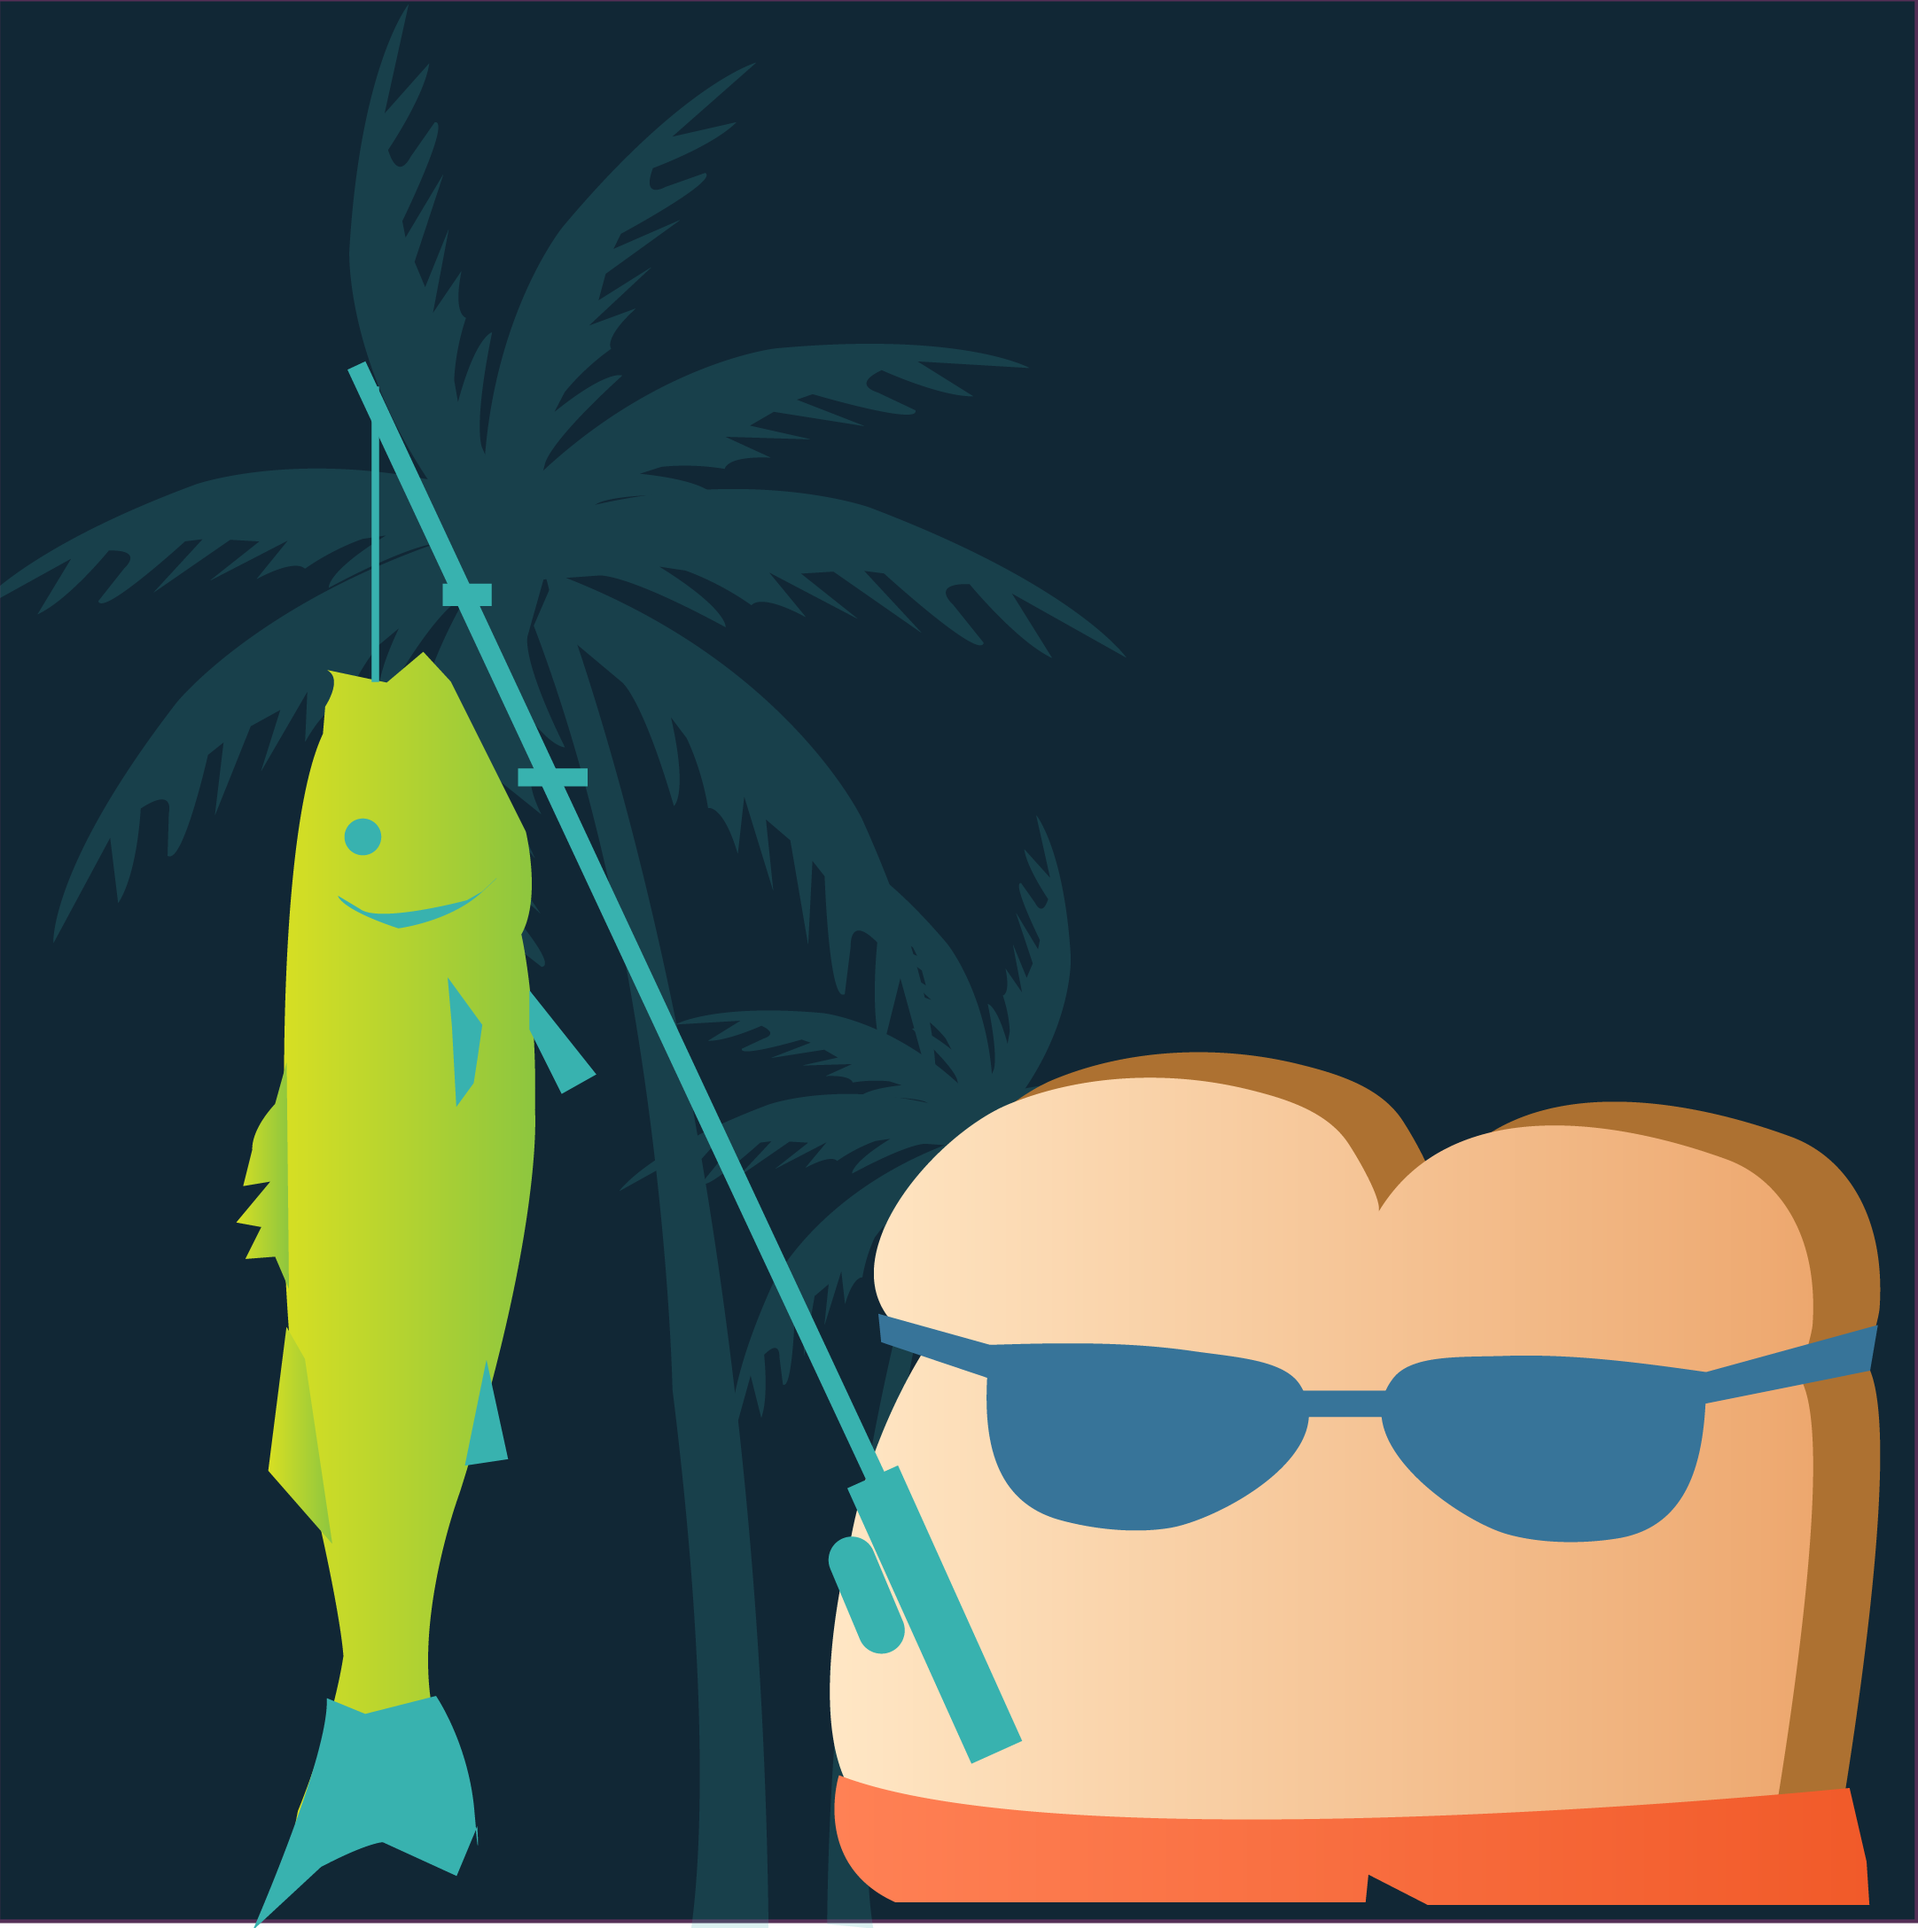
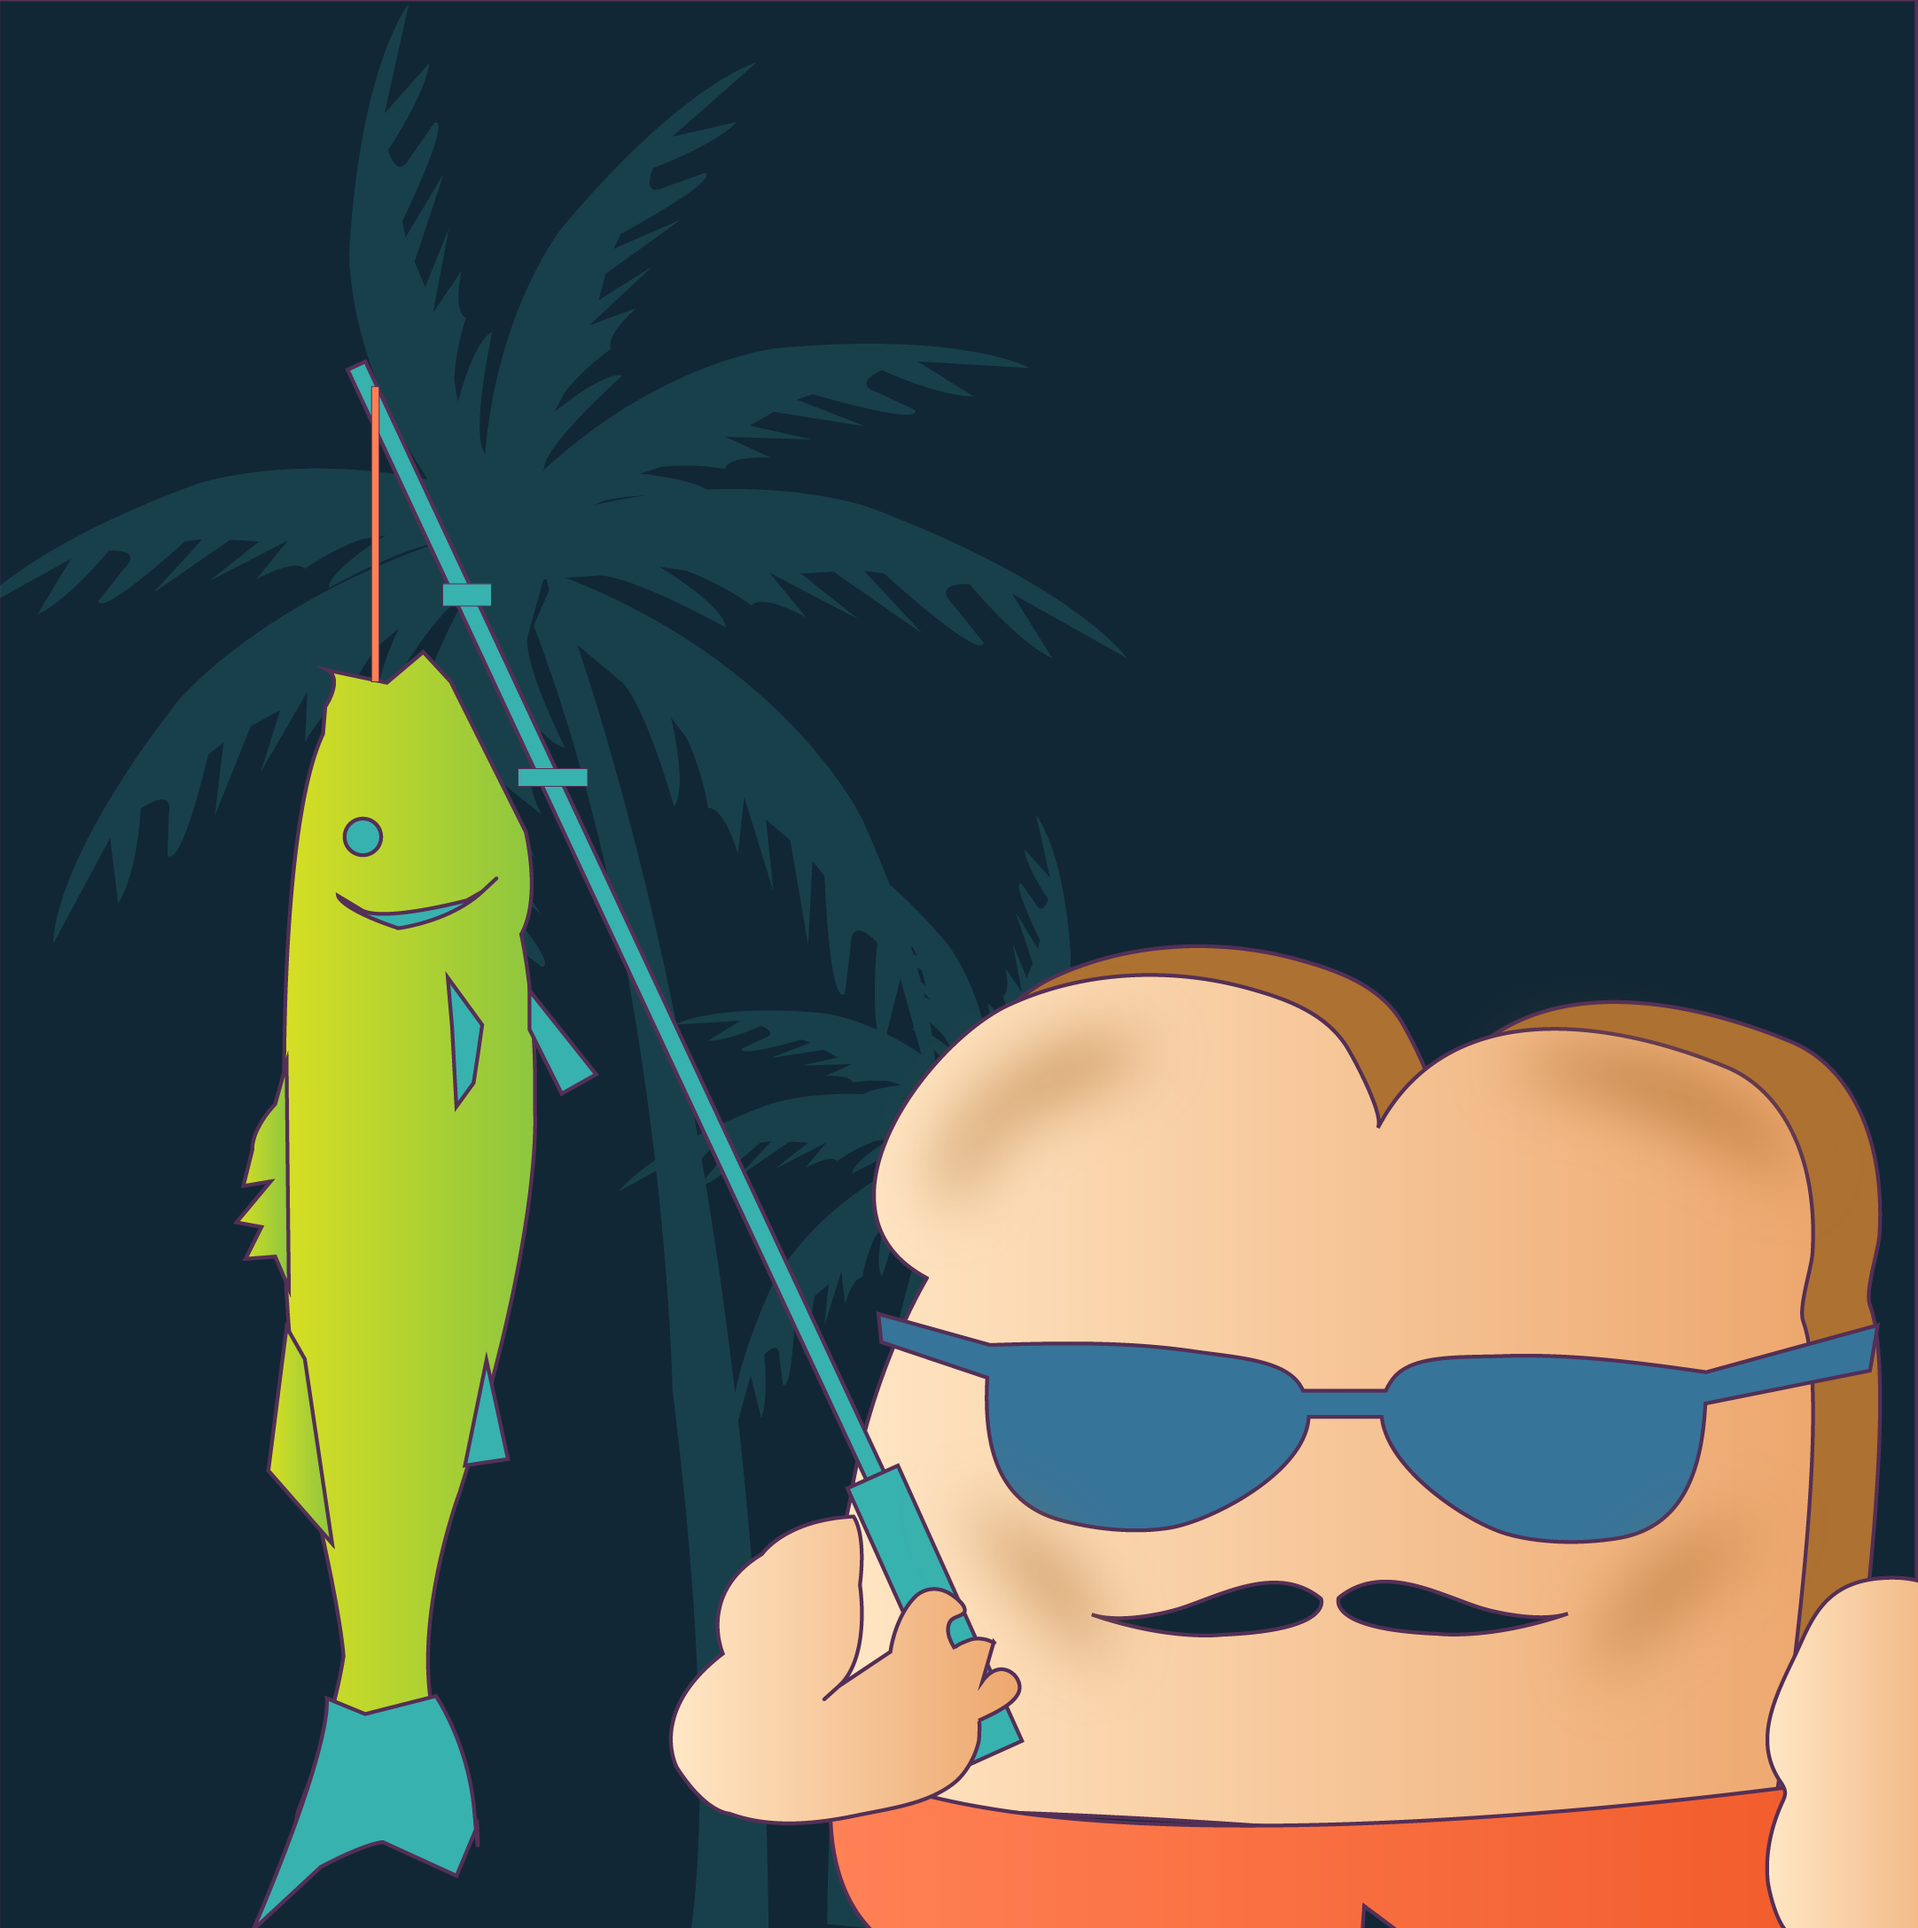
updated madlib

diff --git a/studio1/styles.css b/studio1/styles.css
@@ -9,7 +9,7 @@ body {
 }
 
 /*FONTS*/
-h1 {
+header h1 {
     font-family: 'Jomhuria', serif;
     font-weight: 400;
     font-size: 128px;
@@ -20,7 +20,7 @@ h1 {
     
 }
 
-h2 {
+header h2 {
     font-family: 'Poppins', sans-serif;
     font-weight: 400;
     font-size: 18px;
@@ -46,7 +46,7 @@ header {
 main {
     background-color:#fedeff;
     padding:10px;
-    height:450px;
+    height:500px;
     position: relative;
 }
 
@@ -61,8 +61,6 @@ main {
     text-align:center;
 }
 
-
-
 .madlib {
     display:none;
 }
@@ -74,38 +72,104 @@ main {
     top: 0;
     left: 0;
     width: 100%;
-    height: 450px;
+    height: 500px;
     background-color: rgb(255, 211, 251);
     gap:40px;
 }
 
-.showMadlib p{
-    font-size:24px;
-    color:rgb(64, 66, 38);
-    background-color:rgb(252, 255, 217);
-    width:40%;
-    padding:15px;
-}
+/*PROFILE*/
 
-.showMadlib img {
+.showMadlib #toast {
     padding:30px;
     padding-bottom:75px;
     background-color:rgb(254, 255, 240);
     margin-top:15px;
-
+    margin-left: 58px;
 }
+
 .imageCont {
     position: relative;
 }
-.showMadlib h2 {
+
+
+.showMadlib h2 { /*This is the name and age on profile.*/
     font-family: 'Jomhuria', serif;
     font-weight: 400;
     font-size:44px;
     color:rgb(64, 66, 38);
     position: absolute;
-    bottom: -16px;
-    left: 30px;
-  
+    bottom: -8px;
+    left: 182px;
 }
+
+/*BIO*/
+.bioCont {
+    display:flex;
+    flex-direction:column;
+    align-items:center;
+    margin-right:45px;
+    padding:none;
+}
+
+.showMadlib p{
+    font-size:24px;
+    color:rgb(64, 66, 38);
+    background-color:rgb(254, 255, 240);
+    width:84%;
+    padding:30px;
+    margin-top:10;
+    margin-bottom:0;
+    border-radius:10px;
+}
+
+.showMadlib h3{
+    font-family: 'Jomhuria', serif;
+    font-weight: 400;
+    font-size:44px;
+    color:#cf3c5e;
+    margin-bottom:-30px;
+    margin-top:12px;
+}
+
+
+/*CHOOSING*/
+
+#choose {
+    display:flex;
+}
+
+
+/*This keyframe animation moves the loaf and toast*/
+#loafy:hover {
+    animation-name:animation1;
+    animation-iteration-count: infinite;
+    animation-duration:2s;
+}
+
+
+#toasty:hover {
+    animation-name:animation1;
+    animation-iteration-count: infinite;
+    animation-duration:2s;
+}
+
+@keyframes animation1{
+    0% {
+        transform:rotate(0deg);
+    }
+    25% {
+        transform:rotate(45deg);
+    }
+    50% {
+        transform:rotate(0deg);
+    }
+    75% {
+        transform: rotate(-45deg);
+    }
+    100% {
+        transform: rotate(0deg); 
+    }
+}
+
 
 

diff --git a/studio1/index.html b/studio1/index.html
@@ -39,12 +39,25 @@
          
             <!--delete this content after styling-->
             <div class="imageCont">
-                <img src="images/toast1.png" width="360">
-                <h2>Willy, 25</h2>
+                <img src="images/toast1.png" id="toast" width="360">
+                <h2>Willy (25)</h2>
 
             </div>
-            <p>Hi, my name is a (age a), and I live in a aa in the heart of aa. I am currently a ss by day and a ee by night. You might have also seen me on the hit reality TV show, ee, where I co-starred with ee and ff. When I'm not ee with my pet ff, I am drinking ff while eating ff. I may have peaked in aa, but I am a great catch since many people describe me as ddd!</p>
+
+            <div class="bioCont">
+
+                <h3>Meet your match!</h3>
+                <p>Hi, my name is a (age a), and I live in a aa in the heart of aa. I am currently a ss by day and a ee by night. You might have also seen me on the hit reality TV show, ee, where I co-starred with ee and ff. When I'm not ee with my pet ff, I am drinking ff while eating ff. I may have peaked in aa, but I am a great catch since many people describe me as ddd!</p>
+
+                <div id = "choose">
+                    <img src="images/loafy.png" id="loafy" width="150">
+                    <img src ="images/toasty.png" id="toasty" width = "150">
+                </div>
+                
+            </div>
+
         </article>
+
             <form>
 
             <div id="questions">

diff --git a/studio1/script.js b/studio1/script.js
@@ -139,7 +139,11 @@
                 <h2>${maleName}, (${num})</h2>
             </div>
 
-            <p>Hi, my name is ${maleName} (age ${num}), and I live in a ${building} in the heart of ${city}. I am currently a ${occupation} by day and a ${occupation2} by night. You might have also seen me on the hit reality TV show, ${tv}, where I co-starred with ${celebrity} and ${celebrity2}.  When I'm not ${verb} with my pet ${liquid}, I am drinking ${noun} while eating ${verb2}. I may have peaked in ${schooling}, but I am a great catch since many people describe me as ${adj}!</p>`;
+
+                <p>Hi, my name is ${maleName} (age ${num}), and I live in a ${building} in the heart of ${city}. I am currently a ${occupation} by day and a ${occupation2} by night. You might have also seen me on the hit reality TV show, ${tv}, where I co-starred with ${celebrity} and ${celebrity2}.  When I'm not ${verb} with my pet ${liquid}, I am drinking ${noun} while eating ${verb2}. I may have peaked in ${schooling}, but I am a great catch since many people describe me as ${adj}!</p>
+            
+                <img src="images/loaftoast.png" width="400">
+            `;
         }
 
         //UNCOMMENT THIS STUFF OUT AFTER STYLIZING
